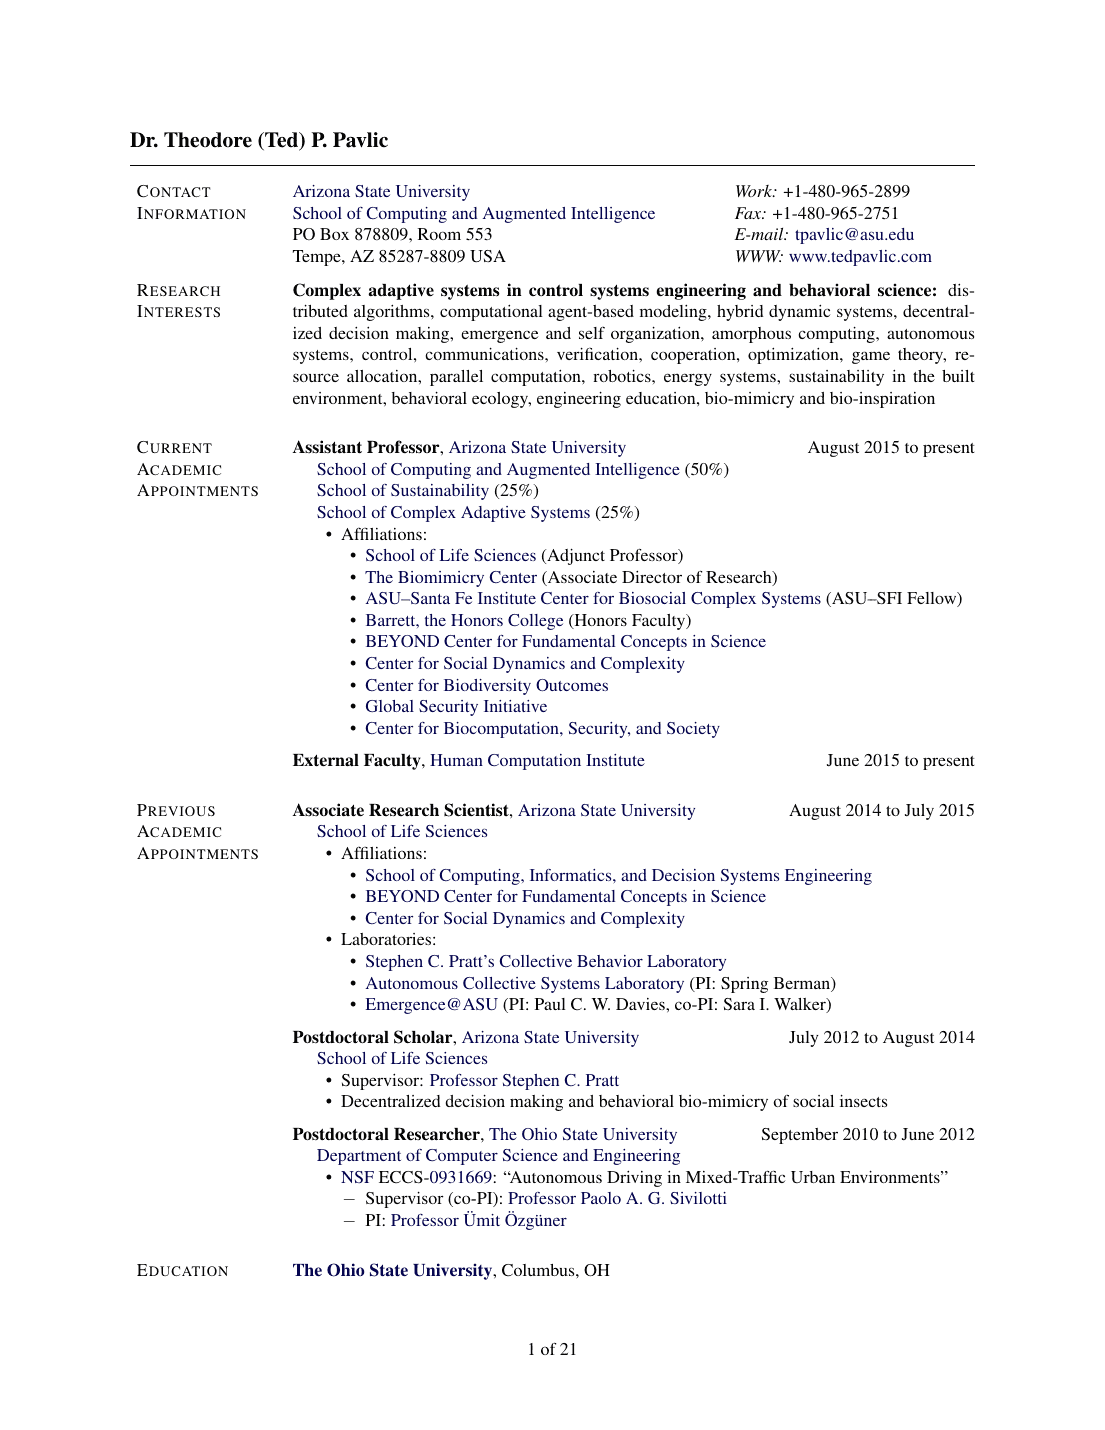
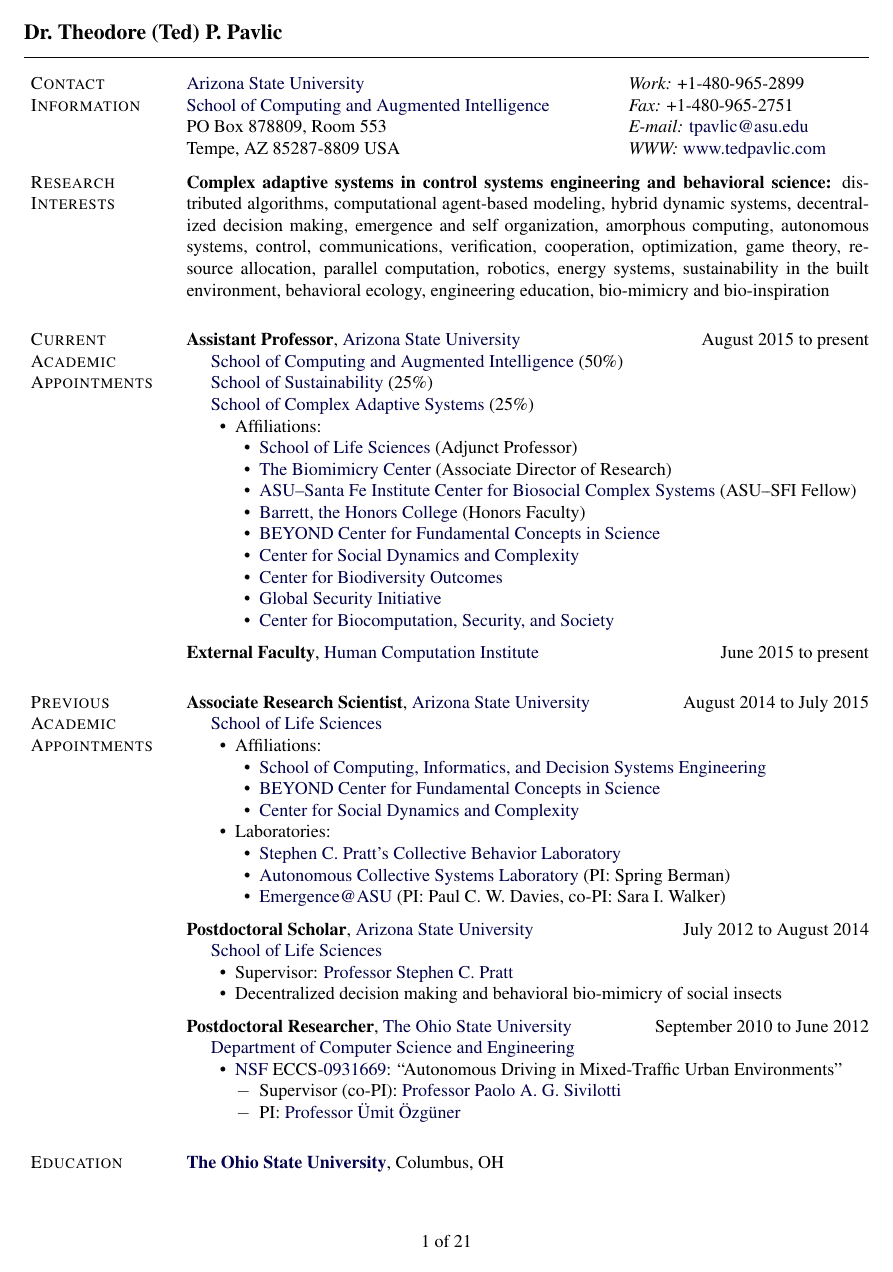
Crop the page-1 image to its content
The render included the full page margins. Trim it to the content with a
small border, as for the worked example, and add the trim step to the
regeneration notes in the README.

diff --git a/README.md b/README.md
@@ -138,7 +138,8 @@ It produces this (the footer is left out here):
 To regenerate the two images in images/ (both made with lualatex):
   cv-page-1.png: build cv.tex, then
     pdftoppm -r 130 -f 1 -l 1 -png cv.pdf p
-    magick p-01.png -colors 48 -strip PNG8:images/cv-page-1.png
+    magick p-01.png -trim +repage -bordercolor white -border 24 \
+        -colors 48 -strip PNG8:images/cv-page-1.png
   worked-example.png: copy cv.tex, put the example above after
     \begin{document} (keep the \newlength lines for \rcollength and
     \spacewidth from cv.tex's Contact section before it), change
